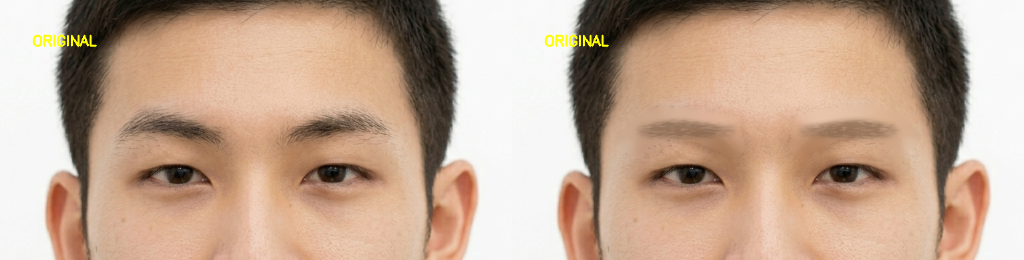
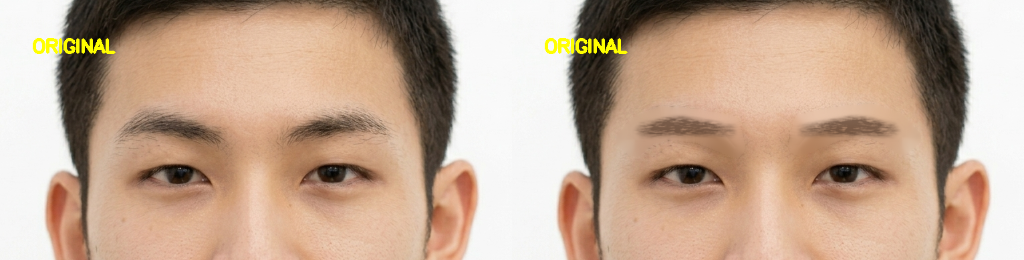
fix: 眉山を大幅強化 + irisオーバーライドバグ修正
## バグ修正
generate_brow_polygon で iris_peak_t が peak_position を
上書きしていたため、全タイプの peak が ~0.5 に丸められ形状差が消失。
タイプ定義の peak_position を直接使うように修正。

## 眉山を大幅強化 (全タイプ)
| タイプ | peak_h (旧) | peak_h (新) |
|--------|------------|------------|
| straight | 0.08 | 0.25 |
| arch | 0.28 | 0.85 |
| parallel | 0.03 | 0.05 |
| corner | 0.40 | 1.20 |
| natural | 0.12 | 0.40 |

色・強度も調整:
- color: (110,85,65) → (85,60,45) 濃いめブラウン
- intensity: 0.55 → 0.70

これによりコーナー眉・アーチ眉の眉山が明確に視認できるように。

https://claude.ai/code/session_01DrQrG5SarFHcMqwHeQoVJp

diff --git a/loadmap/1-virtual-makeup/1-5-eyebrow/main.py b/loadmap/1-virtual-makeup/1-5-eyebrow/main.py
@@ -134,7 +134,7 @@ def erase_eyebrows(
 EYEBROW_TYPES = {
     "straight": {
         "peak_position": 0.55,
-        "peak_height_ratio": 0.08,
+        "peak_height_ratio": 0.25,
         "tail_height_ratio": 0.0,
         "thickness_ratio": 0.95,
         "length_ratio": 1.0,
@@ -142,15 +142,15 @@ EYEBROW_TYPES = {
     },
     "arch": {
         "peak_position": 0.62,
-        "peak_height_ratio": 0.28,
-        "tail_height_ratio": 0.05,
+        "peak_height_ratio": 0.85,
+        "tail_height_ratio": 0.2,
         "thickness_ratio": 0.88,
         "length_ratio": 1.0,
         "desc": "アーチ眉（緩やかカーブ・丸顔向け）",
     },
     "parallel": {
         "peak_position": 0.5,
-        "peak_height_ratio": 0.03,
+        "peak_height_ratio": 0.05,
         "tail_height_ratio": 0.0,
         "thickness_ratio": 1.15,
         "length_ratio": 1.05,
@@ -158,16 +158,16 @@ EYEBROW_TYPES = {
     },
     "corner": {
         "peak_position": 0.6,
-        "peak_height_ratio": 0.4,
-        "tail_height_ratio": 0.12,
-        "thickness_ratio": 0.88,
+        "peak_height_ratio": 1.2,
+        "tail_height_ratio": 0.4,
+        "thickness_ratio": 0.85,
         "length_ratio": 0.95,
         "desc": "コーナー眉（上がり眉・ベース型向け）",
     },
     "natural": {
         "peak_position": 0.55,
-        "peak_height_ratio": 0.12,
-        "tail_height_ratio": 0.08,
+        "peak_height_ratio": 0.4,
+        "tail_height_ratio": 0.25,
         "thickness_ratio": 0.95,
         "length_ratio": 1.0,
         "desc": "ナチュラル眉（自然な下がり・逆三角向け）",
@@ -176,8 +176,8 @@ EYEBROW_TYPES = {
 
 # デフォルト設定
 DEFAULT_EYEBROW_TYPE = "straight"
-DEFAULT_EYEBROW_COLOR_RGB = (110, 85, 65)  # ナチュラルブラウン
-DEFAULT_EYEBROW_INTENSITY = 0.55
+DEFAULT_EYEBROW_COLOR_RGB = (85, 60, 45)   # 濃いめブラウン（眉山を見やすく）
+DEFAULT_EYEBROW_INTENSITY = 0.7            # 濃度を上げてハッキリ
 
 
 def compute_brow_anchors(fm: FaceMesh, side: str = "right") -> dict:
@@ -404,10 +404,9 @@ def generate_brow_polygon(anchors: dict, brow_type: str) -> np.ndarray:
     peak_y = head[1] - eye_h * params["peak_height_ratio"]
     peak = np.array([peak_x, peak_y])
 
-    # 虹彩ベースの眉山位置を使用（タイプ定義の peak_position をオフセットとして適用）
-    iris_peak_t = anchors.get("iris_peak_t", 0.62)
-    # タイプ定義のpeak_positionで微調整（iris基準 ± 差分）
-    peak_t = iris_peak_t + (peak_t - 0.62) * 0.5
+    # 眉山位置: タイプ定義の peak_position をそのまま使う
+    # (iris_peak_t は参考値としてのみ保持)
+    peak_t = params["peak_position"]
 
     # Catmull-Romで滑らかなセンターライン
     n = 120
